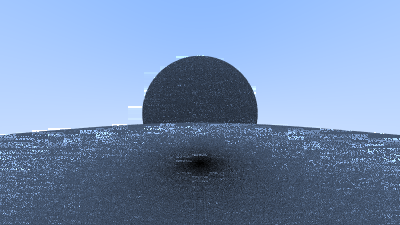
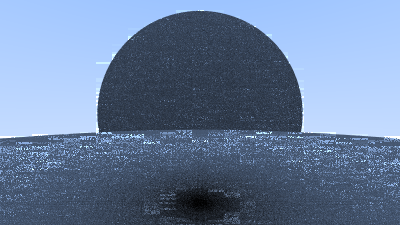
Camera: photographic parameters in real units
The viewport the rays are traced through is now derived from a focal length and a sensor width in millimetres plus a focus distance in scene units (metres here), per the pinhole model: viewport = sensor * focus / focal. The framing the textbook figure shows is the 16 mm-on-full-frame equivalent, and the scene's unit never changes the framing as long as the sensor, the lens and the scene distances are stated together.

diff --git a/examples/ray_tarcing_in_one_weekend/camera.py b/examples/ray_tarcing_in_one_weekend/camera.py
@@ -18,10 +18,20 @@ class Camera:
     def __init__(self):
         self.position: point3f = point3f(0, 0, 0)
         self.orientation: quatf = quatf(1, 0, 0, 0)
-        self.focal_length: float = 0.1
+        # The camera's photographic parameters, in real units: the focal length and
+        # the sensor width are *millimetres* (36 mm is a full-frame sensor's long
+        # edge), and the focus distance is in *scene units* -- metres here, the same
+        # unit the scene is built in. The viewport the rays are traced through lives
+        # at the focus distance and spans sensor_width * focus_distance / focal_length
+        # in scene units, which is the pinhole model: a 50 mm lens on full frame
+        # focused at 2 m sees 1.44 m across, and the field of view it implies is a
+        # property of the *ratio*, so the scene's unit never changes the framing as
+        # long as the sensor, the lens and the scene distances are stated together.
+        self.focal_length_mm: float = 16.0
+        self.sensor_width_mm: float = 36.0
+        self.focus_distance: float = 2.0
         self.aspect_ratio: float = 16/9
         self.image_width: int = 400
-        self.viewport_width: float = 0.4
         self.samples_per_pixel: int = 100
         self.max_depth: int = 10
         self.update_params()
@@ -29,6 +39,9 @@ class Camera:
     def update_params(self):
         self.image_height: int = int(self.image_width / self.aspect_ratio)
         self.aspect_ratio: float = self.image_width / self.image_height
+        # The viewport in scene units, at the focus plane (the pinhole model above).
+        self.viewport_width: float = (self.sensor_width_mm
+                                      * self.focus_distance / self.focal_length_mm)
         self.viewport_height: float = self.viewport_width / self.aspect_ratio
         self.du_in_view: vector3f = vector3f(self.viewport_width / self.image_width, 0, 0)
         self.dv_in_view: vector3f = vector3f(0, -self.viewport_height / self.image_height, 0)
@@ -38,7 +51,7 @@ class Camera:
             self.position + vector3f(
                 -self.viewport_width/2 + 0.5*self.du_in_view.x,
                 self.viewport_height/2 - 0.5*self.dv_in_view.y,
-                -self.focal_length
+                -self.focus_distance
             )
         )
         self.left_top_pixel_pos_in_world: point3f = self.view_pos_to_world(self.left_top_pixel_pos_in_view)
